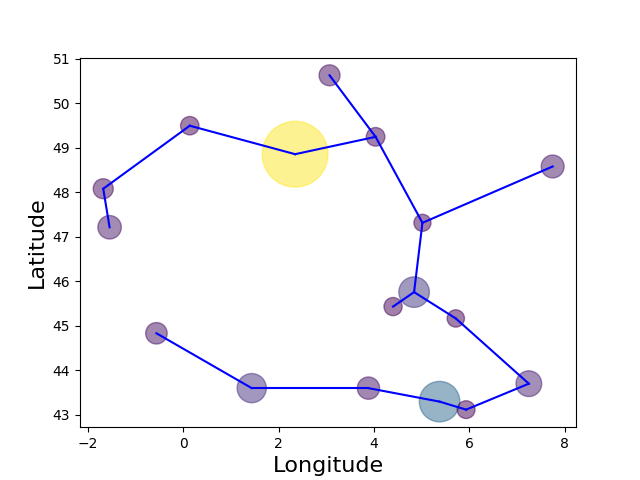
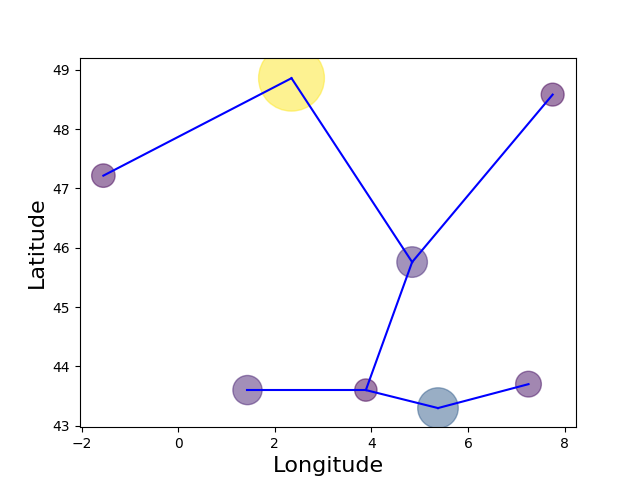
exportation

diff --git a/Réseau d’Aqueducs/main.cpp b/Réseau d’Aqueducs/main.cpp
@@ -61,10 +61,24 @@ std::vector<ville> extraire_population_minimale(const std::vector<ville>& Villes
 	return Resultat;
 }
 
-template <typename type>
-std::vector<ville> exporter_arretes(const std::vector<type>& Arretes, const char* Emplacement)
+void exporter(const std::vector<ville>& Villes, const char* Emplacement)
 {
-	std::vector<ville> Villes;
+	std::FILE* Fichier;
+
+	if ((Fichier = std::fopen(Emplacement, "w")) != nullptr)
+	{
+		for (const auto& [Nom, Population, Longitude, Latitude] : Villes)
+		{
+			fprintf(Fichier, "%i %f %f\n", Population, Longitude, Latitude);
+		}
+
+		fclose(Fichier);
+	}
+}
+
+template <typename type>
+void exporter_arretes(const std::vector<type>& Arretes, const char* Emplacement)
+{
 	std::FILE* Fichier;
 
 	if ((Fichier = std::fopen(Emplacement, "w")) != nullptr)
@@ -76,16 +90,16 @@ std::vector<ville> exporter_arretes(const std::vector<type>& Arretes, const char
 
 		fclose(Fichier);
 	}
-
-	return Villes;
 }
 
 int main(int argc, char* argv[])
 {
 	auto Villes{ lire("citiesList.csv") };
-	auto PopulationMinimale{ extraire_population_minimale(Villes, 150000) };
+	auto PopulationMinimale{ extraire_population_minimale(Villes, 250000) };
 
-	citiesReader(150000);
+	exporter(PopulationMinimale, "resuCities.dat");
+
+	//citiesReader(150000);
 
 	auto Arretes = algo(PopulationMinimale, cout);
 
